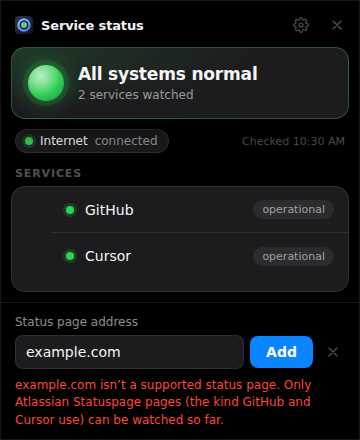
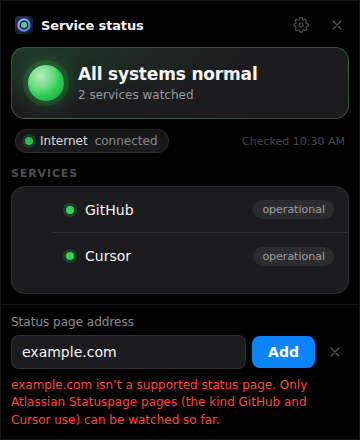
fix: align the SERVICES label and add-form to the panel's 10px inset
section-label used a 14px left/right margin while the hero and
service-list above and below it used 10px, so "SERVICES" sat 4px
further right than the card beneath it. add-form carried its own
padding (2px 2px 0 4px) on top of panel-foot's, so opening it shifted
the input and Add/Cancel buttons out of alignment with the
"Add a status page" button and the service-list card above.

Both now rely on panel-foot's 10px padding, matching hero and
service-list, so opening the form no longer visibly shifts the layout.

Claude-Session: https://claude.ai/code/session_01EDyfPCvMTEFf343thobvLu

diff --git a/src/styles.css b/src/styles.css
@@ -415,7 +415,7 @@ button {
 /* --- Services ------------------------------------------------------------- */
 
 .section-label {
-  margin: 10px 14px 6px;
+  margin: 10px 10px 6px;
   color: var(--ink-faint);
   font-size: 11px;
   font-weight: 600;
@@ -618,7 +618,7 @@ button {
 }
 
 .add-form {
-  padding: 2px 2px 0 4px;
+  padding: 0;
 }
 
 .add-label {
